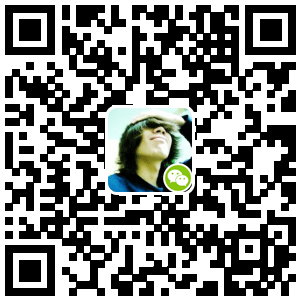
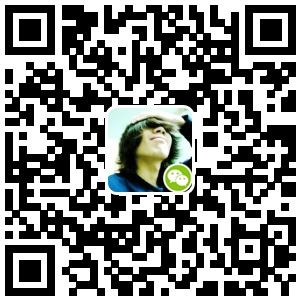
新版效果兼容性修正

diff --git a/simple/style_me.css b/simple/style_me.css
@@ -9,13 +9,14 @@ html, html>body {
 	-webkit-font-smoothing:antialiased;
 	line-height: 1.8em;
 	text-shadow: 0 0 1px rgba(255,255,255,0.1);
-	background: #101010;
 	position: absolute;
-	top: 1750px;
-	left: 436px;
+	top: 214px;
+	left: 150px;
 }
-.donateMe img {border-width: 0px;}
-.donateMe a{
+.donateMe img {
+	border-width: 0;
+}
+.donateMe a {
 	color: #000;
 	text-decoration: none;
 	outline:none;
@@ -24,8 +25,8 @@ html, html>body {
 .list, .list li, .list-left li {
 	list-style: none;
 	list-style-type: none;
-	margin: 0px;
-	padding: 0px;
+	margin: 0;
+	padding: 0;
 }
 .pos-f {
 	position: absolute;
@@ -49,10 +50,10 @@ html, html>body {
 	height: 66px;
 	line-height: 49px;
 	color: #fff;
-	background: #70b9ed;
+	background: #ffab56;
 	background-size: 50px;
 	text-align: center;
-	left: calc(50% - 95px);
+	left: calc(50% - 102px);
 	top: calc(50% - 59px);
 	z-index: 1;
 	transform: rotatez(-15deg);
@@ -61,19 +62,21 @@ html, html>body {
 	left: calc(50% - 150px);
 	top: calc(50% - 15px);
 	background-color: #fff;
-	border: 1px solid #ccc;
-	width: 275px;
+	border: 1px solid #ddd;
+	width: 255px;
 	height: 28px;
-	margin:0px;
-	padding:0px;
 	float: left;
 	z-index: 5;
+	-moz-box-shadow:0 0 8px #C2C2C2;
+	-webkit-box-shadow:0 0 8px #C2C2C2;
+	box-shadow:0 0 8px #C2C2C2;
+	filter:progid:DXImageTransform.Microsoft.DropShadow(OffX=0,OffY=0,Color=#C2C2C2,Positive=true);
 }
 #donateBox li {
-	width: 68px;
+	width: 63px;
 	float: left;
 	text-align: center;
-	border-left: 1px solid #ccc;-moz-box-shadow:0px 0px 8px rgba(0, 0, 0, 0.4);-webkit-box-shadow:0px 0px 8px rgba(0, 0, 0, 0.4);box-shadow:0px 0px 8px rgba(0, 0, 0, 0.4);
+	border-left: 1px solid #ddd;
 	background: no-repeat center center;
 	background-color: rgba(204, 217, 220,0.1);
 	background-size: 45px;
@@ -122,6 +125,7 @@ html, html>body {
 	top: 0;
 	left: 0;
 	z-index: 5;
+	background-color: rgba(255,255,255,0.3);
 	display: none;
 	perspective: 400px;
 }
@@ -131,16 +135,19 @@ html, html>body {
 	text-align: center;
 	width: 200px;
 	height: 200px;
-	left: calc(50% - 111px);
-	top: calc(50% - 100px);
+	left: calc(50% - 121px);
+	top: calc(50% - 126px);
 	background: #fff no-repeat center center;
 	background-size: 190px;
-	box-shadow: 0px 2px 7px rgba(0,0,0,0.3);
 	opacity: 0;
 	transition: all 1s ease-in-out;
 	transform-style: preserve-3d;
 	transform-origin: center center;
 	overflow: hidden;
+	-moz-box-shadow: 0 2px 7px #C2C2C2;
+	-webkit-box-shadow: 0 2px 7px #C2C2C2;
+	box-shadow: 0 2px 7px #C2C2C2;
+	filter:progid:DXImageTransform.Microsoft.DropShadow(OffX=0,OffY=2,Color=#C2C2C2,Positive=true);
 }
 #btc-key {
 	opacity: 0;
@@ -153,7 +160,7 @@ html, html>body {
 #github {
 	width: 24px;
 	height: 24px;
-	left: calc(50% + 115px);
+	left: calc(50% + 95px);
 	top: calc(50% - 29px);
 	background: no-repeat center center url(images/github.svg);
 	background-size: contain;

diff --git a/simple/style.css b/simple/style.css
@@ -1,6 +1,6 @@
 html, html>body {
-	margin: 0px !important;
-	padding: 0px !important;
+	margin: 0 !important;
+	padding: 0 !important;
 	height: 100%;
 	width: 100%;
 }
@@ -10,7 +10,7 @@ body {
 	line-height: 1.8em;
 	text-shadow: 0 0 1px rgba(255,255,255,0.1);
 }
-img {border-width: 0px;}
+img {border-width: 0;}
 a{
 	color: #000;
 	text-decoration: none;
@@ -20,8 +20,8 @@ a{
 .list, .list li, .list-left li {
 	list-style: none;
 	list-style-type: none;
-	margin: 0px;
-	padding: 0px;
+	margin: 0;
+	padding: 0;
 }
 .pos-f {
 	position: fixed;
@@ -58,18 +58,22 @@ a{
 	left: calc(50% - 150px);
 	top: calc(50% - 15px);
 	background-color: #fff;
-	border: 1px solid #ddd;-moz-box-shadow:0px 0px 8px rgba(0, 0, 0, 0.2);-webkit-box-shadow:0px 0px 8px rgba(0, 0, 0, 0.2);box-shadow:0px 0px 8px rgba(0, 0, 0, 0.2);
+	border: 1px solid #ddd;
 	width: 183px;
 	height: 16px;
 	float: left;
 	z-index: 2;
 	margin: 8px 55px 0;
+	-moz-box-shadow:0 0 8px #C2C2C2;
+	-webkit-box-shadow:0 0 8px #C2C2C2;
+	box-shadow:0 0 8px #C2C2C2;
+	filter:progid:DXImageTransform.Microsoft.DropShadow(OffX=0,OffY=0,Color=#C2C2C2,Positive=true);
 }
 #donateBox li {
 	width: 45px;
 	float: left;
 	text-align: center;
-	border-left: 1px solid #ddd;-moz-box-shadow:0px 0px 8px rgba(0, 0, 0, 0.4);-webkit-box-shadow:0px 0px 8px rgba(0, 0, 0, 0.4);box-shadow:0px 0px 8px rgba(0, 0, 0, 0.4);
+	border-left: 1px solid #ddd;
 	background: no-repeat center center;
 	background-color: rgba(204, 217, 220,0.1);
 	background-size: 45px;
@@ -81,6 +85,10 @@ a{
 	-webkit-filter: grayscale(1);
 	filter: grayscale(1);
 	opacity: 0.5;
+	-moz-box-shadow:0 0 8px #999;
+	-webkit-box-shadow:0 0 8px #999;
+	box-shadow:0 0 8px #999;
+	filter:progid:DXImageTransform.Microsoft.DropShadow(OffX=0,OffY=0,Color=#999,Positive=true);
 }
 #donateBox li:hover {
 	background-color: rgba(204, 217, 220,0.3);
@@ -118,7 +126,6 @@ a{
 	top: 0;
 	left: 0;
 	z-index: 3;
-	background-color: rgba(255,255,255,0.3);
 	display: none;
 	perspective: 400px;
 }
@@ -132,13 +139,16 @@ a{
 	top: calc(50% - 70px);
 	background: #fff no-repeat center center;
 	background-size: 120px;
-	box-shadow: 0px 2px 7px rgba(0,0,0,0.3);
 	opacity: 0;
 	transition: all 1s ease-in-out;
 	transform-style: preserve-3d;
 	transform-origin: center center;
 	overflow: hidden;
 	margin: 8px 55px 0;
+	-moz-box-shadow: 0 2px 7px #C2C2C2;
+	-webkit-box-shadow: 0 2px 7px #C2C2C2;
+	box-shadow: 0 2px 7px #C2C2C2;
+	filter:progid:DXImageTransform.Microsoft.DropShadow(OffX=0,OffY=2,Color=#C2C2C2,Positive=true);
 }
 #btc-key {
 	opacity: 0;

diff --git a/README.md b/README.md
@@ -1,7 +1,7 @@
 # Donate-Page
 
 jquery动态捐赠按钮(修改版)：小尺寸直角/阴影边框/中文赏字  
-另_s后缀名为侧边栏使用的蓝字固定样式，效果详见[羽中漫步](http://www.yzmb.me)
+另style_me为自我介绍页面使用大尺寸版，效果详见[羽中漫步](http://www.yzmb.me)
 
 特别感谢[原版](https://github.com/Kaiyuan/donate-page/)大大分享！
 ---
